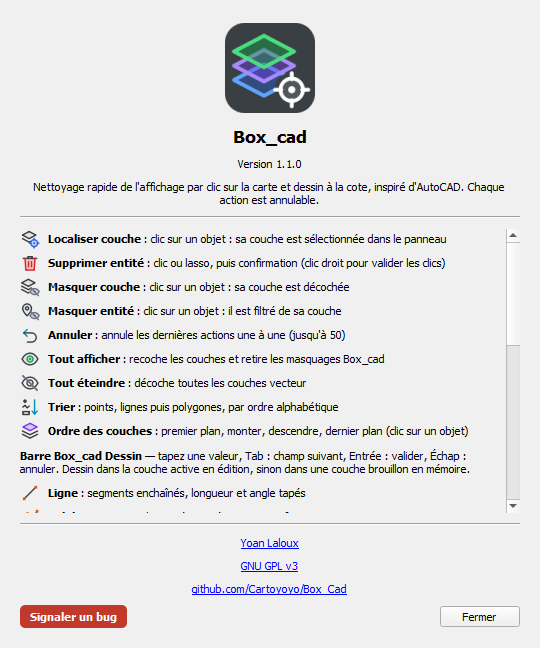
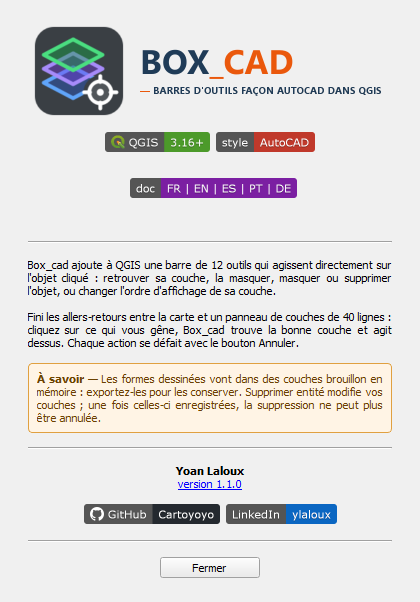
A propos facon CanaPlan
- Bandeau (logo, nom, sous-titre), badges QGIS / style DAO / doc
- Presentation justifiee a la place de la liste defilante des outils
- Encadre « A savoir », auteur et version, badges GitHub et LinkedIn
- Images dans icons/about ; capture et CHANGELOG mis a jour

Claude-Session: https://claude.ai/code/session_01EeWokb5ZpkRVCgBD3Bdv8z

diff --git a/about_dialog.py b/about_dialog.py
@@ -1,199 +1,117 @@
+"""Fenetre « A propos » facon CanaPlan : bandeau, badges, presentation justifiee,
+encadre « A savoir », auteur + version, badges GitHub / LinkedIn, bouton Fermer.
+Images dans icons/about (generees par ~/.local/bin/qgis_about_assets.py)."""
 import os
 
-from qgis.PyQt.QtCore import Qt, QUrl
-from qgis.PyQt.QtGui import QDesktopServices, QFont, QIcon, QPixmap
-from qgis.PyQt.QtWidgets import (
-    QDialog, QFrame, QGridLayout, QHBoxLayout, QLabel, QPushButton, QScrollArea, QVBoxLayout, QWidget,
-)
+from qgis.PyQt.QtCore import Qt
+from qgis.PyQt.QtGui import QPixmap
+from qgis.PyQt.QtWidgets import QDialog, QFrame, QHBoxLayout, QLabel, QPushButton, QVBoxLayout
 
 PLUGIN_DIR = os.path.dirname(__file__)
+ASSETS = os.path.join(PLUGIN_DIR, "icons", "about").replace("\\", "/")
+REPO = "https://github.com/Cartoyoyo/Box_Cad"
 LINKEDIN = "https://www.linkedin.com/in/ylaloux/"
 
-# (icone, outil, description) dans l'ordre de la barre d'outils
-TOOLS = [
-    ("pick_layer.svg", "Localiser couche", "clic sur un objet : sa couche est sélectionnée dans le panneau"),
-    ("delete_feature.svg", "Supprimer entité", "clic ou lasso, puis confirmation (clic droit pour valider les clics)"),
-    ("hide_layer.svg", "Masquer couche", "clic sur un objet : sa couche est décochée"),
-    ("hide_feature.svg", "Masquer entité", "clic sur un objet : il est filtré de sa couche"),
-    ("undo.svg", "Annuler", "annule les dernières actions une à une (jusqu'à 50)"),
-    ("show_all.svg", "Tout afficher", "recoche les couches et retire les masquages Box_cad"),
-    ("hide_all.svg", "Tout éteindre", "décoche toutes les couches vecteur"),
-    ("sort_geom.svg", "Trier", "points, lignes puis polygones, par ordre alphabétique"),
-    ("to_top.svg", "Ordre des couches", "premier plan, monter, descendre, dernier plan (clic sur un objet)"),
+PRESENTATION = [
+    "Box_cad ajoute à QGIS une barre de 12 outils qui agissent directement sur l'objet cliqué : "
+    "retrouver sa couche, la masquer, masquer ou supprimer l'objet, ou changer l'ordre d'affichage "
+    "de sa couche.",
+    "Fini les allers-retours entre la carte et un panneau de couches de 40 lignes : cliquez sur ce "
+    "qui vous gêne, Box_cad trouve la bonne couche et agit dessus. Chaque action se défait avec le "
+    "bouton Annuler.",
 ]
+NOTICE = ("<b>À savoir</b> — Les formes dessinées vont dans des couches brouillon en mémoire : "
+          "exportez-les pour les conserver. Supprimer entité modifie vos couches ; une fois "
+          "celles-ci enregistrées, la suppression ne peut plus être annulée.")
+NOTICE_CSS = ("background:#FFF4E5; color:#6B4200; border:1px solid #E0A040;"
+              "border-radius:4px; padding:8px;")
 
 
-DRAW_TOOLS = [
-    ("draw_line.svg", "Ligne", "segments enchaînés, longueur et angle tapés"),
-    ("draw_polyline.svg", "Polyligne", "une seule entité ; Entrée termine, C ferme"),
-    ("draw_rectangle.svg", "Rectangle", "deux coins opposés (largeur, hauteur)"),
-    ("draw_rect_rotated.svg", "Rectangle orienté", "premier côté (longueur, angle) puis hauteur"),
-    ("draw_square.svg", "Carré", "coin puis côté (longueur, angle)"),
-    ("draw_polygon.svg", "Polygone", "un clic par sommet ; Entrée, clic droit ou C ferme"),
-    ("draw_circle.svg", "Cercle", "centre puis rayon"),
-    ("draw_text.svg", "Texte", "point, angle, puis texte et taille (points, fixe à l'écran)"),
-    ("draw_dimension.svg", "Cote", "deux points puis position : ligne de cote fléchée avec la longueur"),
-    ("draw_angle.svg", "Angle", "deux lignes (ou Entrée : sommet + 2 points) puis arc : angle en degrés"),
-    ("draw_move.svg", "Déplacer / Copier", "objet, point de base, arrivée (copies multiples)"),
-    ("draw_rotate.svg", "Rotation", "objet, point de base (Entrée : centre), angle à la souris ou tapé"),
-    ("draw_mirror.svg", "Miroir / Échelle", "axe en 2 points ; facteur ou R = référence"),
-    ("draw_eraser.svg", "Gomme", "clic ou lasso : efface les formes des couches brouillon (annulable)"),
-    ("draw_properties.svg", "Propriétés", "couleur, épaisseur, trait, remplissage ; Entrée : propriétés courantes"),
-    ("draw_fill.svg", "Remplissage", "à activer d'un clic : sinon rectangles, carrés et cercles restent vides"),
-    ("draw_osnap.svg", "Accrochage objet", "F3 : centre, quadrant, opposé, extrémité, milieu, intersection, perpendiculaire, proche"),
-    ("draw_ortho.svg", "Ortho", "F8 : segments horizontaux ou verticaux uniquement"),
-]
-
-
-def _tools_grid(tools):
-    """Grille icone + texte : contrairement a un tableau HTML dans un QLabel
-    a retour a la ligne, Qt en calcule correctement la hauteur."""
-    widget = QWidget()
-    grid = QGridLayout(widget)
-    grid.setContentsMargins(0, 0, 0, 0)
-    grid.setHorizontalSpacing(8)
-    grid.setVerticalSpacing(4)
-    for row, (icon, name, desc) in enumerate(tools):
-        lbl_icon = QLabel()
-        lbl_icon.setPixmap(QIcon(os.path.join(PLUGIN_DIR, "icons", icon)).pixmap(20, 20))
-        lbl_icon.setAlignment(Qt.AlignmentFlag.AlignTop)
-        lbl_text = QLabel(f"<b>{name}</b> : {desc}")
-        lbl_text.setWordWrap(True)
-        grid.addWidget(lbl_icon, row, 0)
-        grid.addWidget(lbl_text, row, 1)
-    grid.setColumnStretch(1, 1)
-    return widget
-
-
-def _read_metadata():
-    """Lit metadata.txt ligne par ligne (pas de configparser : evite DuplicateOptionError)."""
-    vals = {'name': '?', 'version': '?', 'author': '', 'email': '',
-            'tracker': '', 'repository': ''}
-    meta_path = os.path.join(PLUGIN_DIR, 'metadata.txt')
-    if os.path.exists(meta_path):
-        with open(meta_path, encoding='utf-8') as f:
+def _version():
+    """Version lue dans metadata.txt (ligne a ligne : pas de configparser)."""
+    path = os.path.join(PLUGIN_DIR, "metadata.txt")
+    try:
+        with open(path, encoding="utf-8") as f:
             for line in f:
-                for k in vals:
-                    if line.startswith(k + '='):
-                        vals[k] = line.split('=', 1)[1].strip()
-                        break
-    return vals
+                if line.startswith("version="):
+                    return line.split("=", 1)[1].strip()
+    except OSError:
+        pass
+    return "?"
 
 
-def _link(url, text=None):
-    return f'<a href="{url}">{text or url.replace("https://", "")}</a>'
+def _badge(href, filename):
+    return f'<a href="{href}"><img src="{ASSETS}/{filename}"></a>'
 
 
 class AboutDialog(QDialog):
     def __init__(self, parent=None):
         super().__init__(parent)
-        meta = _read_metadata()
-        self.setWindowTitle("À propos de " + meta['name'])
-        self.setFixedWidth(540)
+        self.setWindowTitle("À propos Box_cad")
+        self.setMinimumWidth(420)
         self.setWindowFlags(self.windowFlags() & ~Qt.WindowType.WindowContextHelpButtonHint)
 
-        layout = QVBoxLayout()
-        layout.setSpacing(10)
-        layout.setContentsMargins(20, 20, 20, 20)
+        layout = QVBoxLayout(self)
+        layout.setContentsMargins(28, 24, 28, 24)
+        layout.setSpacing(14)
+        center = Qt.AlignmentFlag.AlignHCenter | Qt.AlignmentFlag.AlignVCenter
 
-        # Logo
-        logo_path = os.path.join(PLUGIN_DIR, 'icon.png')
-        if os.path.exists(logo_path):
-            lbl_logo = QLabel()
-            lbl_logo.setPixmap(QPixmap(logo_path).scaledToWidth(
-                96, Qt.TransformationMode.SmoothTransformation))
-            lbl_logo.setAlignment(Qt.AlignmentFlag.AlignCenter)
-            layout.addWidget(lbl_logo)
+        # Bandeau : logo, nom, sous-titre
+        banner = QLabel()
+        banner.setPixmap(QPixmap(f"{ASSETS}/logo-full.png"))
+        banner.setAlignment(center)
+        layout.addWidget(banner)
 
-        # Nom + version
-        lbl_name = QLabel(meta['name'])
-        font_title = QFont()
-        font_title.setBold(True)
-        font_title.setPointSize(13)
-        lbl_name.setFont(font_title)
-        lbl_name.setAlignment(Qt.AlignmentFlag.AlignCenter)
-        layout.addWidget(lbl_name)
-
-        lbl_version = QLabel("Version " + meta['version'])
-        lbl_version.setAlignment(Qt.AlignmentFlag.AlignCenter)
-        layout.addWidget(lbl_version)
-
-        lbl_desc = QLabel("Nettoyage rapide de l'affichage par clic sur la carte et dessin à la cote, "
-                          "inspiré d'AutoCAD. Chaque action est annulable.")
-        lbl_desc.setWordWrap(True)
-        lbl_desc.setAlignment(Qt.AlignmentFlag.AlignCenter)
-        layout.addWidget(lbl_desc)
+        # Badges
+        sep = "&nbsp;&nbsp;"
+        badges = QLabel('<div style="line-height:220%">'
+                        + _badge("https://qgis.org", "badge-qgis.png") + sep
+                        + _badge(REPO, "badge-autocad.png") + sep
+                        + _badge(f"{REPO}#readme", "badge-doc.png") + "</div>")
+        badges.setAlignment(center)
+        badges.setWordWrap(True)
+        badges.setOpenExternalLinks(True)
+        layout.addWidget(badges)
 
         layout.addWidget(self._separator())
 
-        # Aide-memoire des outils, dans une zone defilante : la fenetre doit tenir
-        # sur un petit ecran (720 px de haut)
-        help_widget = QWidget()
-        help_layout = QVBoxLayout(help_widget)
-        help_layout.setContentsMargins(0, 0, 6, 0)
-        help_layout.setSpacing(8)
-        help_layout.addWidget(_tools_grid(TOOLS))
+        # Presentation, justifiee
+        text = QLabel("<br><br>".join(PRESENTATION))
+        text.setWordWrap(True)
+        text.setAlignment(Qt.AlignmentFlag.AlignJustify)
+        layout.addWidget(text)
 
-        lbl_draw = QLabel('<b>Barre Box_cad Dessin</b> — tapez une valeur, Tab : champ suivant, '
-                          'Entrée : valider, Échap : annuler. Dessin dans la couche active en édition, '
-                          'sinon dans une couche brouillon en mémoire.')
-        lbl_draw.setWordWrap(True)
-        help_layout.addWidget(lbl_draw)
-        help_layout.addWidget(_tools_grid(DRAW_TOOLS))
-
-        lbl_tip = QLabel("Échap annule la sélection en cours de l'outil Supprimer.")
-        lbl_tip.setStyleSheet("color:#6b7280")
-        lbl_tip.setWordWrap(True)
-        help_layout.addWidget(lbl_tip)
-
-        scroll = QScrollArea()
-        scroll.setWidgetResizable(True)
-        scroll.setFrameShape(QFrame.Shape.NoFrame)
-        scroll.setHorizontalScrollBarPolicy(Qt.ScrollBarPolicy.ScrollBarAlwaysOff)
-        scroll.setWidget(help_widget)
-        layout.addWidget(scroll, 1)
+        notice = QLabel(NOTICE)
+        notice.setWordWrap(True)
+        notice.setAlignment(Qt.AlignmentFlag.AlignJustify)
+        notice.setStyleSheet(NOTICE_CSS)
+        layout.addWidget(notice)
 
         layout.addWidget(self._separator())
 
-        # Auteur (lien LinkedIn uniquement), licence, depot
-        author = _link(LINKEDIN, meta['author'] or "Yoan Laloux")
-        infos = [author, _link("https://www.gnu.org/licenses/gpl-3.0.html", "GNU GPL v3")]
-        if meta['repository']:
-            infos.append(_link(meta['repository']))
-        for html in infos:
-            lbl = QLabel(html)
-            lbl.setOpenExternalLinks(True)
-            lbl.setAlignment(Qt.AlignmentFlag.AlignCenter)
-            layout.addWidget(lbl)
+        # Auteur + version (lien vers le changelog), badges GitHub / LinkedIn
+        author = QLabel(f'<b>Yoan Laloux</b><br><a href="{REPO}/blob/main/README.md#changelog">'
+                        f'version {_version()}</a>')
+        author.setAlignment(center)
+        author.setOpenExternalLinks(True)
+        layout.addWidget(author)
 
-        # Boutons Signaler un bug + Fermer
-        btn_row = QHBoxLayout()
-        if meta['tracker']:
-            btn_bug = QPushButton("Signaler un bug")
-            btn_bug.setCursor(Qt.CursorShape.PointingHandCursor)
-            btn_bug.setStyleSheet(
-                "QPushButton{background:#c0392b;color:#fff;border-radius:5px;"
-                "font-weight:bold;font-size:11px;padding:5px 10px}"
-                "QPushButton:hover{background:#d44534}"
-            )
-            url_tracker = meta['tracker']
-            btn_bug.clicked.connect(lambda: QDesktopServices.openUrl(QUrl(url_tracker)))
-            btn_row.addWidget(btn_bug)
-        btn_row.addStretch()
+        links = QLabel(_badge(REPO, "badge-github.png") + sep + _badge(LINKEDIN, "badge-linkedin.png"))
+        links.setAlignment(center)
+        links.setOpenExternalLinks(True)
+        layout.addWidget(links)
+
+        layout.addWidget(self._separator())
+
+        row = QHBoxLayout()
+        row.addStretch()
         btn_close = QPushButton("Fermer")
+        btn_close.setMinimumWidth(100)
         btn_close.clicked.connect(self.accept)
-        btn_row.addWidget(btn_close)
-        layout.addLayout(btn_row)
-
-        self.setLayout(layout)
-
-        # Hauteur : tout le contenu si l'ecran le permet, sinon 90 % de l'ecran
-        # (la liste des outils defile)
-        screen = parent.screen() if parent is not None else None
-        avail = screen.availableGeometry().height() if screen is not None else 900
-        help_height = help_layout.totalHeightForWidth(480)   # 540 - marges - barre de defilement
-        wanted = self.sizeHint().height() - scroll.sizeHint().height() + help_height + 4
-        self.resize(self.width(), min(wanted, int(avail * 0.9)))
+        row.addWidget(btn_close)
+        row.addStretch()
+        layout.addLayout(row)
+        self.adjustSize()
 
     @staticmethod
     def _separator():

diff --git a/CHANGELOG.md b/CHANGELOG.md
@@ -25,6 +25,7 @@
 - Gomme : clic ou lasso, n'efface que les formes des couches brouillon « Box_cad dessin » visibles ; surbrillance de la forme visée ; annulable.
 - Accrochage QGIS, mode ortho (F8), cotes et surface en direct.
 - Dessin dans la couche active si elle est en édition et du bon type (formulaire d'attributs QGIS, Ctrl+Z), sinon dans une couche brouillon en mémoire « Box_cad dessin » ; le bouton Annuler retire la dernière forme du brouillon.
+- Fenêtre « À propos » : courte présentation du plugin à la place de la liste défilante des outils ; elle tient sans défilement sur un écran de 720 px.
 
 ## 1.0.0 — 2026-10-16
 

diff --git a/README.md b/README.md
@@ -32,7 +32,7 @@
 | À propos · About |
 |:---:|
 | <img src="screenshot/a_propos.png" width="380" alt="Fenêtre À propos"/> |
-| Aide-mémoire des outils<br>intégré au plugin |
+| Présentation du plugin,<br>auteur, licence et dépôt |
 
 </div>
 
